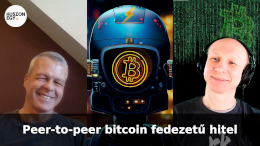
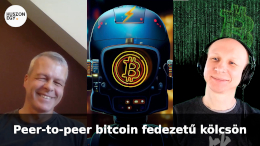
podcast update

Changed region(s): [[0.0308, 0.8493, 0.9538, 0.9315]]

diff --git a/src/data/podcasts.ts b/src/data/podcasts.ts
@@ -2,6 +2,16 @@
 
 export const podcasts = [
     {
+        name: "Bitcoin konferencia + idő faktor = türelem",
+        id: "E51",
+        img: "/pics/mi-az-a-bitcoin-e51.jpg",
+        date: "2025.02.14.",
+        members: ["Feri", "Anti"],
+        topic: "Bitcoin konferencia Hajdúszoboszlón - Bitcoin hírek - FED auditálás - Árfolyam és hashrate - Banki költség kontra Lightning - Milei és Argentina - Idő faktor, türelem, remény",
+        yt: "https://youtu.be/b8k4XPX-msc",
+        fountain: "https://fountain.fm/episode/QbTHzMvuPW5MZz8ksMXV"
+    },
+    {
         name: "Bitcoin félelmek, bizonytalanság, kétségek II.",
         id: "E50",
         img: "/pics/mi-az-a-bitcoin-e50.jpg",
@@ -52,12 +62,12 @@ export const podcasts = [
         fountain: "https://fountain.fm/episode/z2Rhc6UIZam84HZoThnH"
     },
     {
-        name: "Peer-to-peer bitcoin fedezetű hitel",
+        name: "Peer-to-peer bitcoin fedezetű kölcsön",
         id: "E45",
         img: "/pics/mi-az-a-bitcoin-s01e45.jpg",
         date: "2024.12.20.",
         members: ["Roli", "Openoms", "Árpi"],
-        topic: "JAN3 nyereményjáték január 3-ig - Peer-to-peer bitcoin fedezetű hitel bevezető - Firefish technikai háttér, Loan-To-Value - Biztonságos letét menedzselés - Kedvező euro befektetés, okosszerződés - Megfontolt eszköz őrzés, észszerű hiteligénylés - HUSZONEGY Firefish ajánlókód, honlap magyarítás - Ne adjátok el a bitcoint!",
+        topic: "JAN3 nyereményjáték január 3-ig - Peer-to-peer bitcoin fedezetű kölcsön bevezető - Firefish technikai háttér, Loan-To-Value - Biztonságos letét menedzselés - Kedvező euro befektetés, okosszerződés - Megfontolt eszköz őrzés, észszerű kölcsönigénylés - HUSZONEGY Firefish ajánlókód, honlap magyarítás - Ne adjátok el a bitcoint!",
         yt: "https://youtu.be/sdvxqskHOjs",
         fountain: "https://fountain.fm/episode/ohksFGl7zrSOTWqjhKax"
     },
